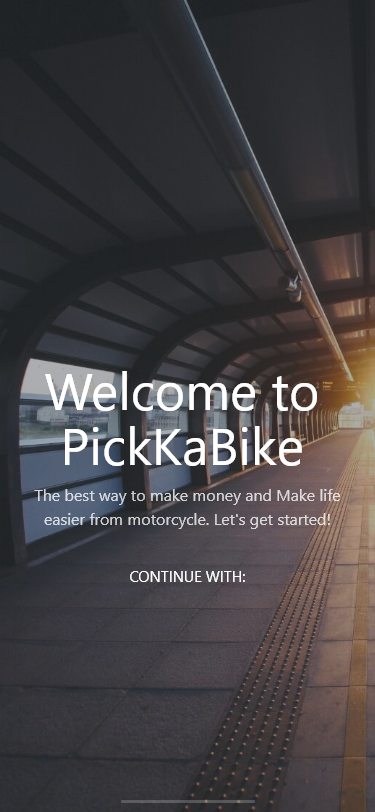
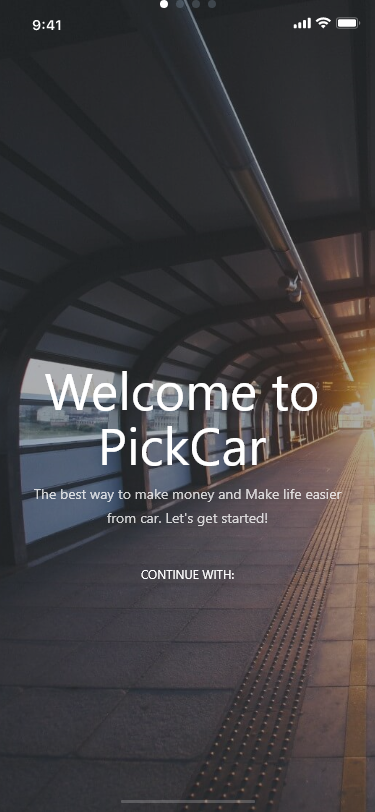
fix

diff --git a/lib/page/searchpage/listcar.dart b/lib/page/searchpage/listcar.dart
@@ -644,6 +644,7 @@ import 'package:firebase_storage/firebase_storage.dart';
 import 'package:flutter/material.dart';
 import 'package:flutter_spinkit/flutter_spinkit.dart';
 import 'package:pickcar/datamanager.dart';
+import 'package:pickcar/models/boxlocation.dart';
 import 'package:pickcar/models/listcarslot.dart';
 import 'package:pickcar/models/placelocation.dart';
 import 'package:pickcar/widget/profile/profileImage.dart';
@@ -745,11 +746,14 @@ class _ListcarState extends State<Listcar> {
   }
   Widget build(BuildContext context) {
     fetchlocation();
+    var datasize = MediaQuery.of(context);
     // print(Datamanager.placelocationshow);
     return Scaffold(
       appBar: AppBar(
         centerTitle: true,
-        title: Text("Listcar"),
+        title: Text(UseString.logo,
+          style: TextStyle(fontWeight: FontWeight.bold,fontSize: datasize.textScaleFactor*25,color: Colors.white),
+        ),
         backgroundColor: Colors.transparent, 
         elevation: 0.0, 
         leading: IconButton(
@@ -826,6 +830,11 @@ class _ListcarState extends State<Listcar> {
   Widget _buildListItem(BuildContext context, DocumentSnapshot data) {
     var datasize = MediaQuery.of(context);
     final timeslot = Listcarslot.fromSnapshot(data);
+    Firestore.instance.collection('boxlocation')
+                          .document(timeslot.boxplacedocid).get()
+                          .then((data){
+                            Datamanager.boxlocationshow = BoxlocationShow.fromSnapshot(data);
+                          });
     var imageusershow;
     MotorcycleShow motorshow;
     Usershow usershow;
@@ -849,6 +858,7 @@ class _ListcarState extends State<Listcar> {
     // print(Datamanager.user.documentid + ' '+timeslot.university+' '+timeslot.ownerdocid);
     // print(Datamanager.placelocationshow);
     if( timeslot.ownerdocid != Datamanager.user.documentid && timeslot.university == widget.university){
+      DataFetch.checknotsamenoresult =1;
           return GestureDetector(
             onTap: (){
               Datamanager.usershow = usershow;
@@ -979,7 +989,7 @@ class _ListcarState extends State<Listcar> {
                           child: Text(motorshow.brand+" "+motorshow.generation),
                         ),
                         Container(
-                          margin: EdgeInsets.only(left: 60,top: 58),
+                          margin: EdgeInsets.only(left: 30,top: 75),
                           decoration: BoxDecoration(
                             borderRadius: BorderRadius.circular(10),
                             //  color: Colors.black,
@@ -989,8 +999,8 @@ class _ListcarState extends State<Listcar> {
                                                   motorshow.motorleftlink)
                                             )
                           ),
-                          width: 190,
-                          height: 160,
+                          width: 220,
+                          height: 140,
                         ),
                         Row(
                           children: <Widget>[

diff --git a/lib/page/receivecar.dart b/lib/page/receivecar.dart
@@ -23,10 +23,10 @@ class _ReceivecarState extends State<Receivecar> {
   CarouselSlider carouselSlider;
   int _current = 0;
   List imgList = [
-    'https://i.ytimg.com/vi/I1a_UBrfdII/maxresdefault.jpg',
-    'https://livitaly-666b.kxcdn.com/wp-content/uploads/2018/10/85382-cinque-terre-tour-from-La-Spezia-hike-boat-train-and-sightsee-4-750x510.jpg',
-    'https://thumbs.dreamstime.com/b/rome-italy-august-people-sightsee-vatican-museums-163445616.jpg',
-    'https://admin.freetour.com/images/tours/6989/runsightsee-04.jpg',
+    'https://www.toyota.co.th/news/getimage/6d5qbKdA',
+    'https://www.thairath.co.th/media/B6FtNKtgSqRqbnNsU1dGNakSC6FY0Bv3IJ5ZVKDe1kjr9tv264EkJPeNRW5tAaFzc86GY.jpg',
+    'https://www.autodeft.com/_files/images/full/2019-11-11/JN5WUDE0.jpg',
+    'https://www.thairath.co.th/media/B6FtNKtgSqRqbnNsU1dGNakSC6FY0Bv3IJ5ZVKDe1kjr9tv264EkJPeNRW5tAaFzc86GY.jpg',
   ];
  
   List<T> map<T>(List list, Function handler) {
@@ -292,7 +292,7 @@ class _ReceivecarState extends State<Receivecar> {
                   children: <Widget>[
                     Container(
                       margin: EdgeInsets.only(top: 10,left: 10),
-                      child: Text(UseString.name,
+                      child: Text('toyota yaris',
                           style: TextStyle(fontWeight: FontWeight.bold,fontSize: data.textScaleFactor*30,color: PickCarColor.colorFont1), 
                       ),
                     ),
@@ -329,7 +329,7 @@ class _ReceivecarState extends State<Receivecar> {
                                       width: MediaQuery.of(context).size.width,
                                       margin: EdgeInsets.symmetric(horizontal: 10.0),
                                       decoration: BoxDecoration(
-                                        color: Colors.green,
+                                        color: Colors.white,
                                       ),
                                       child: Image.network(
                                         imgUrl,
@@ -367,14 +367,14 @@ class _ReceivecarState extends State<Receivecar> {
                     Container(
                       alignment: Alignment.centerLeft,
                       margin: EdgeInsets.only(top: 10,left: 10),
-                      child: Text(UseString.date+" : "+'25 January 2020',
+                      child: Text(UseString.date+" : "+'31 January 2020',
                           style: TextStyle(fontWeight: FontWeight.bold,fontSize: data.textScaleFactor*20,color: PickCarColor.colorFont1), 
                       ),
                     ),
                     Container(
                       alignment: Alignment.centerLeft,
                       margin: EdgeInsets.only(top: 10,left: 10),
-                      child: Text(UseString.time+" : "+'9:30 - 11.00',
+                      child: Text(UseString.time+" : "+'8:00 - 9.15',
                           style: TextStyle(fontWeight: FontWeight.bold,fontSize: data.textScaleFactor*20,color: PickCarColor.colorFont1), 
                       ),
                     ),

diff --git a/lib/page/searchpage/search.dart b/lib/page/searchpage/search.dart
@@ -2063,19 +2063,19 @@ class _SearchPageState extends State<SearchPage> with TickerProviderStateMixin {
           fit: BoxFit.cover,
         ),
         centerTitle: true,
-        bottom: TabBar(
-          controller: _tabController,
-          labelColor: PickCarColor.colormain,
-          tabs: myTabs,
-          indicatorColor: PickCarColor.colormain,
-          onTap: (data) {
-            setState(() {
-              widget.indicatorpage = data;
-              print(widget.indicatorpage);
-              widget.i = 0;
-            });
-          },
-        ),
+        // bottom: TabBar(
+        //   controller: _tabController,
+        //   labelColor: PickCarColor.colormain,
+        //   tabs: myTabs,
+        //   indicatorColor: PickCarColor.colormain,
+        //   onTap: (data) {
+        //     setState(() {
+        //       widget.indicatorpage = data;
+        //       print(widget.indicatorpage);
+        //       widget.i = 0;
+        //     });
+        //   },
+        // ),
         title: Text(
           UseString.logo,
           style: TextStyle(

diff --git a/lib/page/listcarpage.dart b/lib/page/listcarpage.dart
@@ -130,9 +130,16 @@ class _ListCarPageState extends State<ListCarPage> with TickerProviderStateMixin
                     children: <Widget>[
                       Container(
                         margin: EdgeInsets.only(top: 20,left: 30),
-                        width: 100,
+                        width: 150,
                         height: 100,
-                        child: Image.network(widget.motorshow.motorfrontlink,fit: BoxFit.fill,),
+                        decoration: BoxDecoration(
+                          borderRadius: BorderRadius.circular(15),
+                          image: DecorationImage(
+                            image: NetworkImage(widget.motorshow.motorfrontlink),
+                            fit: BoxFit.fill,
+                          ),
+                        ),
+                        // child: Image.network(widget.motorshow.motorfrontlink,fit: BoxFit.fill,),
                       ),
                       Column(
                         children: <Widget>[

diff --git a/lib/page/searchpage/confirmpage.dart b/lib/page/searchpage/confirmpage.dart
@@ -778,8 +778,10 @@ class _ConfirmPageState extends State<ConfirmPage> {
                     width: 130,
                     height: 65,
                     // color: Colors.black,
-                    child: Text(UseString.getkey,
-                        style: TextStyle(fontWeight: FontWeight.normal,fontSize: data.textScaleFactor*22,color: PickCarColor.colorcmu), 
+                    child: Center(
+                      child: Text(Datamanager.boxlocationshow.name,
+                          style: TextStyle(fontWeight: FontWeight.normal,fontSize: data.textScaleFactor*22,color: PickCarColor.colorcmu), 
+                      ),
                     ),
                   ),
                 ],

diff --git a/lib/page/mainloginpage.dart b/lib/page/mainloginpage.dart
@@ -34,8 +34,8 @@ class _MainloginpageState extends State<Mainloginpage> {
                     child: Image.asset("assets/images/imagelogin/bg.png"),
                   ),
                   Container(
-                    margin: EdgeInsets.only(top: 10,left: 95),
-                    child: Text(UseString.pickabike,
+                    margin: EdgeInsets.only(top: 10,left: 120),
+                    child: Text(UseString.pickcar,
                         style: TextStyle(fontWeight: FontWeight.bold,fontSize: data.textScaleFactor*30,color: Colors.white), 
                     ),
                   ),

diff --git a/lib/page/registercarlist.dart b/lib/page/registercarlist.dart
@@ -24,11 +24,10 @@ class _RegistercarlistState extends State<Registercarlist> {
   @override
   Widget build(BuildContext context) {
     return Scaffold(
-        body: Container(
-      height: MediaQuery.of(context).size.height -
-          MediaQuery.of(context).padding.top,
+      body: Container(
+      height: 500,
       width: MediaQuery.of(context).size.width,
-      margin: EdgeInsets.fromLTRB(0, MediaQuery.of(context).padding.top, 0, 0),
+      margin: EdgeInsets.fromLTRB(0, 20, 0, 0),
       child: BlocBuilder(
         bloc: _listCarBloc,
         builder: (ctx, state) {

diff --git a/lib/page/searchpage/detailsearch.dart b/lib/page/searchpage/detailsearch.dart
@@ -121,7 +121,7 @@ class _DetailsearchState extends State<Detailsearch> {
                                       width: MediaQuery.of(context).size.width,
                                       margin: EdgeInsets.symmetric(horizontal: 10.0),
                                       decoration: BoxDecoration(
-                                        color: Colors.green,
+                                        color: Colors.white,
                                       ),
                                       child: Image.network(
                                         imgUrl,

diff --git a/lib/page/loginpage.dart b/lib/page/loginpage.dart
@@ -51,8 +51,8 @@ class _LoginPageState extends State<LoginPage> with TickerProviderStateMixin{
     var data = MediaQuery.of(context);
     loginbloc.context = context;
     //todo test user
-    loginbloc.emailcontroller.text = "g@g.com";
-    loginbloc.passcontroller.text = "1234567";
+    loginbloc.emailcontroller.text = "f@f.com";
+    loginbloc.passcontroller.text = "1111111";
 
     final List<Tab> myTabs = <Tab>[
       new Tab(

diff --git a/lib/datamanager.dart b/lib/datamanager.dart
@@ -306,6 +306,7 @@ class UseString {
   static String notimeforrent = "No Time For Rent.";
   static String areyousure = "Are yor sure?";
   static String rentthis = "Are you confident that you will rent this car?";
+  static String pickcar = "PickCar";
 }
 
 class Currency {

diff --git a/lib/main.dart b/lib/main.dart
@@ -40,6 +40,7 @@ class MyApp extends StatelessWidget {
   @override
   Widget build(BuildContext context) {
     return MaterialApp(
+      debugShowCheckedModeBanner: false,
       title: 'PickCar',
       theme: ThemeData(
           primaryColor: PickCarColor.colormain,
